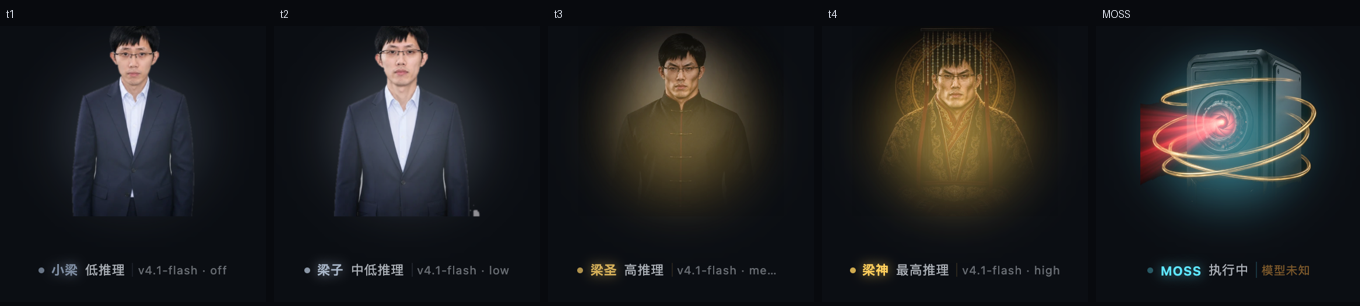
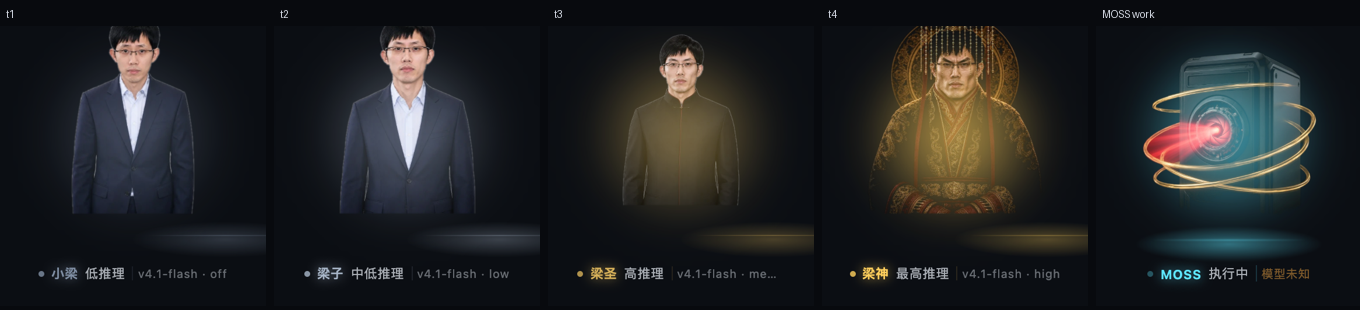
fix: 立绘改 GrabCut 透明底、恢复底部光环动画、读不到 provider 时默认梁神
- 梁神四档 + MOSS 全部用 OpenCV GrabCut 抠图，再按边框中位色做二次剔除，去掉灰块与光晕残留
- 第三档换成 level-16 锚点（原 level-22 的渐变背景抠不干净）
- 恢复底部光环动画：空闲呼吸、执行中脉冲（纯 CSS，无背景图）
- provider 读不到时默认按 DeepSeek 处理（DSH 自带只有 DeepSeek），避免「用了 DeepSeek 却一直是 MOSS」
- 移除对 dsh-bili-widget 窗口的程序化拖拽（它自己的拖动/缩放状态会被打乱，表现为窗口忽大忽小），改为首次写入布局状态
- 加 1.5s 兜底重算，防某个 store 不通知导致档位不刷新

diff --git a/client/client.js b/client/client.js
@@ -37,7 +37,7 @@ window.__ModuleLoader__.load({
     var ROOT_ID = 'dsh-pet-liang-root'
     var POS_KEY = 'dsh-pet-liang:pos'
     /* 素材改了名字没变，加一个版本号强制浏览器重新取（宿主给的是 immutable 缓存） */
-    var ASSET_V = '6'
+    var ASSET_V = '8'
     var STYLE_ID = 'dsh-pet-liang-style'
 
     /** 四档推理等级对应的称呼与氛围色。 */
@@ -141,7 +141,9 @@ window.__ModuleLoader__.load({
     function decide(input) {
       var selection = (input && input.selection) || readSelection(input && input.modelState)
       var provider = selection ? selection.provider : ''
-      var isDeepSeek = /deepseek/i.test(provider)
+      /* provider 拿不到时默认按 DeepSeek 处理：DSH 自带的就只有 DeepSeek，
+         读不到就显示 MOSS 会让「用了 DeepSeek 却没梁神」变成常态。 */
+      var isDeepSeek = provider ? /deepseek/i.test(provider) : true
       var running = !!(input && input.running)
       var tier = tierOf(selection)
       var meta = LIANG_TIERS[tier - 1]
@@ -231,6 +233,13 @@ window.__ModuleLoader__.load({
                   '#' + ROOT_ID + '[data-working="1"] .dpl-figure{animation:dpl-breathe 1.9s ease-in-out infinite;}',
             /* 梁神：透明底立绘，直接浮着（不画圆框、不加背景） */
       '#' + ROOT_ID + '[data-character="liang"] .dpl-figure{width:auto;max-width:176px;max-height:176px;}',
+      '#' + ROOT_ID + ' .dpl-ring{position:absolute;left:50%;bottom:0;width:158px;height:30px;transform:translateX(-50%);',
+      'pointer-events:none;border-radius:50%;opacity:.55;',
+      'background:radial-gradient(ellipse at center,color-mix(in srgb,var(--dpl-aura) 55%,transparent) 0%,transparent 72%);',
+      'animation:dpl-breathe 4.2s ease-in-out infinite;}',
+      '#' + ROOT_ID + '[data-working="1"] .dpl-ring{opacity:.95;animation:dpl-pulse 1.7s ease-in-out infinite;}',
+      '#' + ROOT_ID + ' .dpl-ring::after{content:"";position:absolute;left:8%;right:8%;top:38%;height:1px;border-radius:1px;',
+      'background:linear-gradient(90deg,transparent,var(--dpl-aura),transparent);opacity:.65;}',
       '#' + ROOT_ID + ' .dpl-scan{position:absolute;left:50%;bottom:-8px;width:168px;height:186px;transform:translateX(-50%);',
       'overflow:hidden;pointer-events:none;opacity:0;border-radius:50%;}',
       '#' + ROOT_ID + ' .dpl-scan::after{content:"";position:absolute;left:0;width:100%;height:16px;filter:blur(4px);',
@@ -285,6 +294,7 @@ window.__ModuleLoader__.load({
       'border-radius:6px;cursor:pointer;color:#e8edf5;background:rgba(0,0,0,.55);border:1px solid rgba(255,255,255,.14);}',
       '#' + ROOT_ID + ' .dpl-bili-foot{padding:6px 10px;font-size:9.5px;opacity:.42;border-top:1px solid rgba(255,255,255,.06);}',
       '@keyframes dpl-breathe{0%,100%{transform:translateY(0)}50%{transform:translateY(-6px)}}',
+      '@keyframes dpl-pulse{0%,100%{opacity:.5;filter:blur(0)}50%{opacity:1;filter:blur(1px)}}',
       '@keyframes dpl-spin{0%,100%{transform:translateX(-50%) scaleX(1) scaleY(1);opacity:.55}50%{transform:translateX(-50%) scaleX(1.06) scaleY(1.18);opacity:.95}}',
       '@keyframes dpl-blink{0%,100%{opacity:.25}50%{opacity:1}}',
       '@keyframes dpl-sweep{0%{top:-24px}100%{top:200px}}',
@@ -429,8 +439,10 @@ window.__ModuleLoader__.load({
       figure.draggable = false
       figure.setAttribute('data-asset', 'moss-idle.webp')
       figure.setAttribute('data-char', 'moss')
+      var ring = el('div', 'dpl-ring')
       var scan = el('div', 'dpl-scan')
       stage.appendChild(aura)
+      stage.appendChild(ring)
       stage.appendChild(figure)
       stage.appendChild(scan)
 
@@ -715,6 +727,34 @@ window.__ModuleLoader__.load({
       document.head.appendChild(style)
     }
 
+    /**
+     * 首次运行时，把它持久化的窗口布局写成「桌宠左侧」——
+     * 不要用程序化拖拽去挪它的窗口，那会和它自己的拖动/缩放状态打架（表现为窗口忽大忽小）。
+     */
+    function seedBiliLayout() {
+      try {
+        var key = 'bili-widget-v2'
+        var seeded = 'dsh-pet-liang:bili-seeded'
+        if (window.localStorage.getItem(seeded)) return
+        var raw = window.localStorage.getItem(key)
+        var state = raw ? JSON.parse(raw) : {}
+        if (!state || typeof state !== 'object') state = {}
+        var pet = overlay ? overlay.getBoundingClientRect() : null
+        var w = Math.max(360, Math.min(440, state.w || 400))
+        var h = Math.max(440, Math.min(600, state.h || 560))
+        var x = pet ? Math.max(12, Math.round(pet.left - w - 18)) : Math.max(12, (window.innerWidth || 1280) - w - 260)
+        var y = pet ? Math.max(12, Math.round(pet.bottom - h)) : 80
+        state.w = w
+        state.h = h
+        state.x = x
+        state.y = y
+        window.localStorage.setItem(key, JSON.stringify(state))
+        window.localStorage.setItem(seeded, '1')
+      } catch (e) {
+        /* 无痕模式：忽略 */
+      }
+    }
+
     /** 用它的拖拽条把浮窗拖到桌宠左侧，避免开在屏幕左上角挡视线。 */
     function placeBiliWin() {
       var win = document.querySelector('.dy-win')
@@ -771,9 +811,6 @@ window.__ModuleLoader__.load({
         ensureBiliChrome()
         launch.dispatchEvent(new PointerEvent('pointerdown', Object.assign({ buttons: 1 }, base)))
         document.dispatchEvent(new PointerEvent('pointerup', Object.assign({ buttons: 0 }, base)))
-        /* 等它渲染出来再摆位置；连点两次时第二次是关闭，不摆 */
-        window.setTimeout(placeBiliWin, 180)
-        window.setTimeout(placeBiliWin, 520)
         return true
       } catch (e) {
         return false
@@ -927,9 +964,20 @@ window.__ModuleLoader__.load({
         selection = fromDirectory
       }
 
+      /* 某些 store 在特定路径下不会通知订阅者，这里给一个低频兜底重算 */
+      var tickPair = react.useState(0)
+      var tick = tickPair[0]
+      var bumpTick = tickPair[1]
+      useEffect(function () {
+        var timer = window.setInterval(function () {
+          if (typeof bumpTick === 'function') bumpTick(function (n) { return n + 1 })
+        }, 1500)
+        return function () { window.clearInterval(timer) }
+      }, [])
+
       var decision = useMemo(function () {
         return decide({ sessionId: sessionId, running: running, selection: selection, modelState: modelState })
-      }, [sessionId, running, selection, modelState])
+      }, [sessionId, running, selection, modelState, tick])
 
       useEffect(function () {
         publish(decision)
@@ -970,6 +1018,7 @@ window.__ModuleLoader__.load({
 
       buildOverlay()
       ensureBiliChrome()
+      seedBiliLayout()
       try {
         if (!window.__dshPetBiliObserver) {
           var observer = new MutationObserver(function () {
